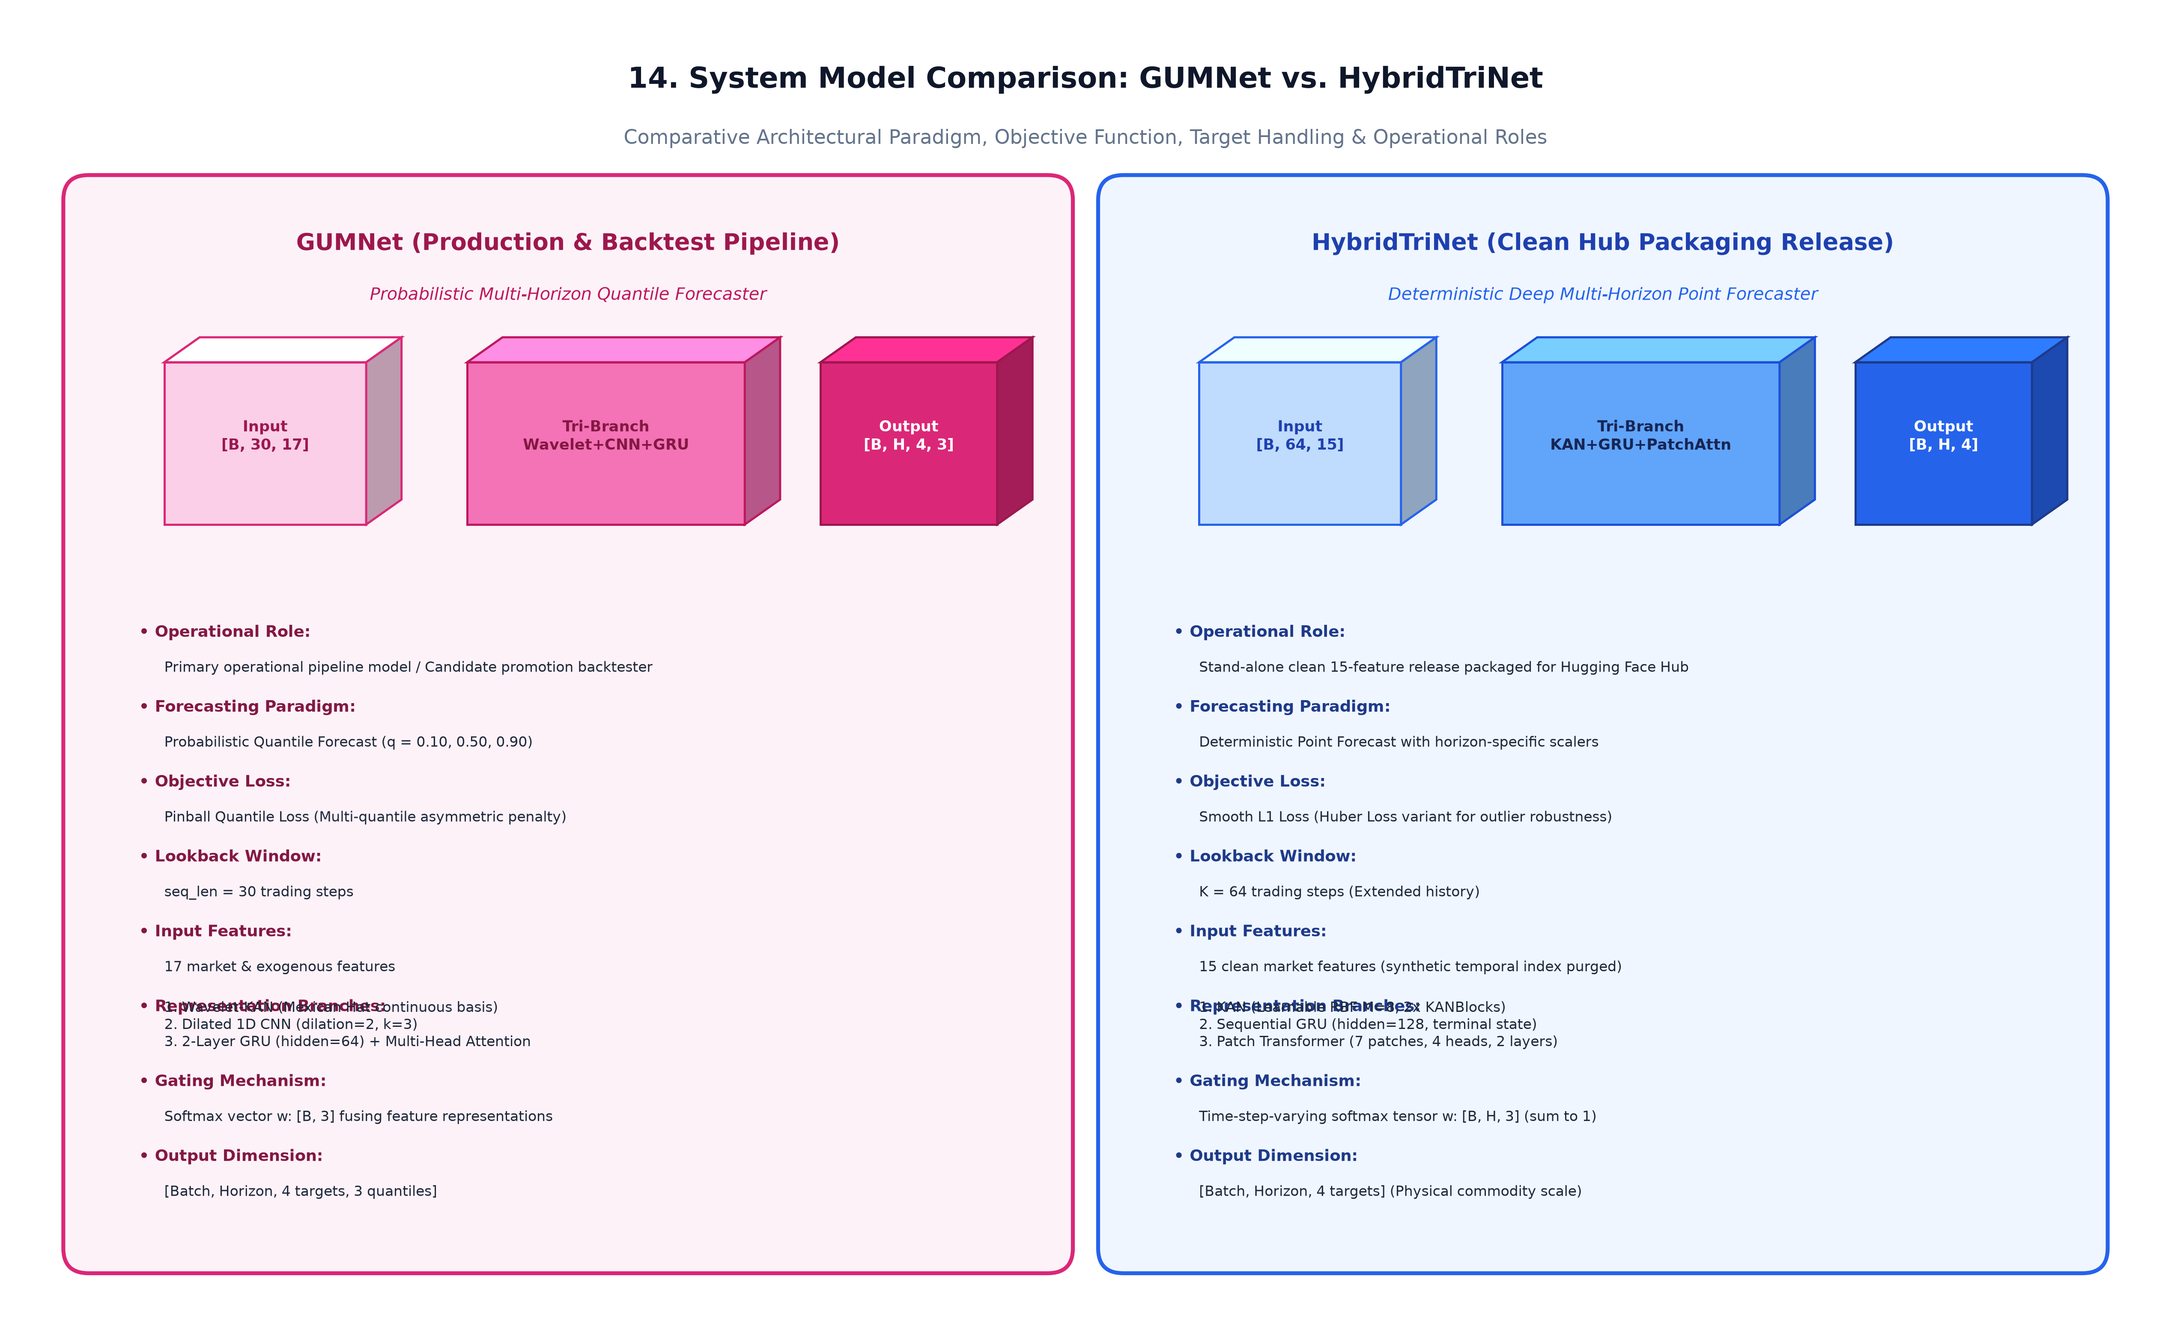
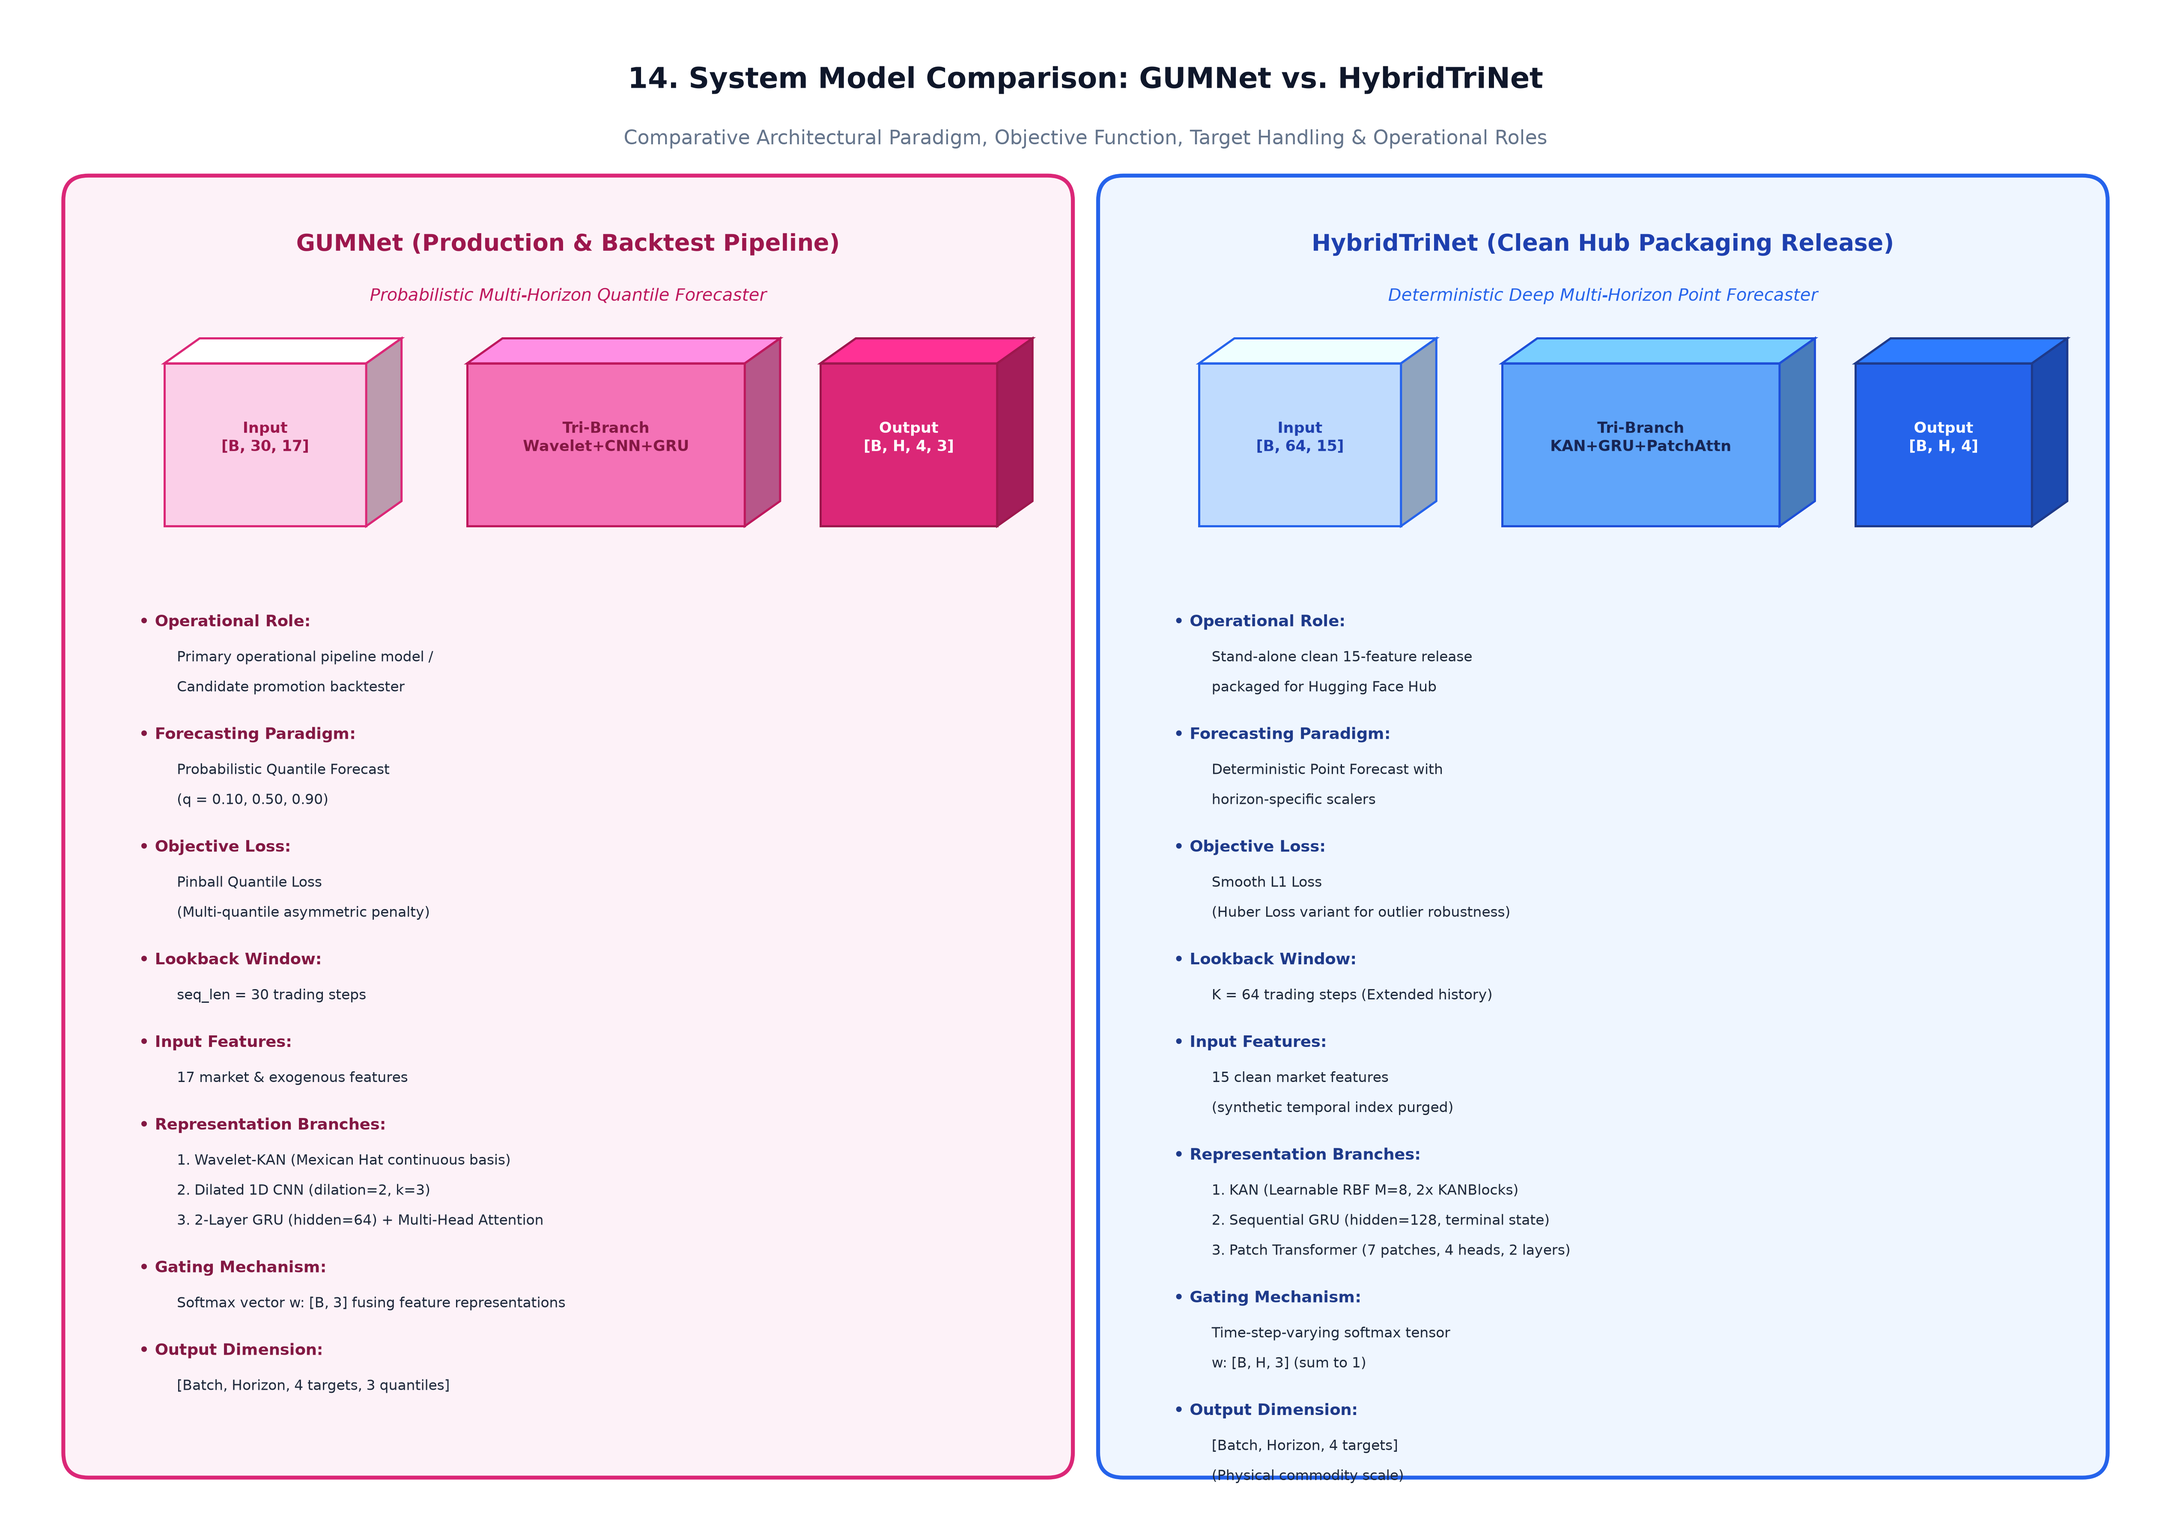
docs: resolve text collisions in Fig 7 (denormalization box) and Fig 14 (bullet lines)

Changed region(s): [[0.0312, 0.0311, 0.9661, 0.4353], [0.0312, 0.4663, 0.9661, 0.9949], [0.0623, 0.4663, 0.2493, 0.9016]]

diff --git a/scripts/visualize_gumnet.py b/scripts/visualize_gumnet.py
@@ -329,74 +329,88 @@ def draw_13_gumnet_quantile_output():
 # 14. Model Comparison Diagram
 # =============================================================================
 def draw_14_model_comparison():
-    fig, ax = plt.subplots(figsize=(17, 10.5), dpi=300, facecolor="#ffffff")
+    fig, ax = plt.subplots(figsize=(17, 12.0), dpi=300, facecolor="#ffffff")
     ax.set_facecolor("#ffffff")
     ax.set_xlim(0, 17)
-    ax.set_ylim(0, 10.5)
+    ax.set_ylim(0, 12.0)
     ax.axis("off")
 
-    ax.text(8.5, 9.9, "14. System Model Comparison: GUMNet vs. HybridTriNet", fontsize=16, fontweight="bold", color="#0f172a", ha="center")
-    ax.text(8.5, 9.45, "Comparative Architectural Paradigm, Objective Function, Target Handling & Operational Roles", fontsize=11, color="#64748b", ha="center")
+    ax.text(8.5, 11.4, "14. System Model Comparison: GUMNet vs. HybridTriNet", fontsize=16, fontweight="bold", color="#0f172a", ha="center")
+    ax.text(8.5, 10.95, "Comparative Architectural Paradigm, Objective Function, Target Handling & Operational Roles", fontsize=11, color="#64748b", ha="center")
 
     # Column 1: GUMNet Panel
-    ax.add_patch(patches.FancyBboxPatch((0.6, 0.6), 7.6, 8.4, boxstyle="round,pad=0.2", facecolor="#fdf2f8", edgecolor="#db2777", lw=2.2))
-    ax.text(4.4, 8.6, "GUMNet (Production & Backtest Pipeline)", fontsize=13, fontweight="bold", color="#9d174d", ha="center")
-    ax.text(4.4, 8.2, "Probabilistic Multi-Horizon Quantile Forecaster", fontsize=9.5, style="italic", color="#be185d", ha="center")
+    ax.add_patch(patches.FancyBboxPatch((0.6, 0.5), 7.6, 10.0, boxstyle="round,pad=0.2", facecolor="#fdf2f8", edgecolor="#db2777", lw=2.2))
+    ax.text(4.4, 10.1, "GUMNet (Production & Backtest Pipeline)", fontsize=13, fontweight="bold", color="#9d174d", ha="center")
+    ax.text(4.4, 9.7, "Probabilistic Multi-Horizon Quantile Forecaster", fontsize=9.5, style="italic", color="#be185d", ha="center")
 
-    draw_isometric_cube(ax, 1.2, 6.4, 1.6, 1.3, 0.4, "#fbcfe8", edge_color="#db2777")
-    ax.text(2.0, 7.0, "Input\n[B, 30, 17]", fontsize=8.5, fontweight="bold", color="#9d174d", ha="center")
+    draw_isometric_cube(ax, 1.2, 7.9, 1.6, 1.3, 0.4, "#fbcfe8", edge_color="#db2777")
+    ax.text(2.0, 8.5, "Input\n[B, 30, 17]", fontsize=8.5, fontweight="bold", color="#9d174d", ha="center")
 
-    draw_isometric_cube(ax, 3.6, 6.4, 2.2, 1.3, 0.4, "#f472b6", edge_color="#be185d")
-    ax.text(4.7, 7.0, "Tri-Branch\nWavelet+CNN+GRU", fontsize=8.5, fontweight="bold", color="#831843", ha="center")
+    draw_isometric_cube(ax, 3.6, 7.9, 2.2, 1.3, 0.4, "#f472b6", edge_color="#be185d")
+    ax.text(4.7, 8.5, "Tri-Branch\nWavelet+CNN+GRU", fontsize=8.5, fontweight="bold", color="#831843", ha="center")
 
-    draw_isometric_cube(ax, 6.4, 6.4, 1.4, 1.3, 0.4, "#db2777", edge_color="#9d174d")
-    ax.text(7.1, 7.0, "Output\n[B, H, 4, 3]", fontsize=8.5, fontweight="bold", color="#ffffff", ha="center")
+    draw_isometric_cube(ax, 6.4, 7.9, 1.4, 1.3, 0.4, "#db2777", edge_color="#9d174d")
+    ax.text(7.1, 8.5, "Output\n[B, H, 4, 3]", fontsize=8.5, fontweight="bold", color="#ffffff", ha="center")
 
     gum_specs = [
-        ("Operational Role", "Primary operational pipeline model / Candidate promotion backtester"),
-        ("Forecasting Paradigm", "Probabilistic Quantile Forecast (q = 0.10, 0.50, 0.90)"),
-        ("Objective Loss", "Pinball Quantile Loss (Multi-quantile asymmetric penalty)"),
-        ("Lookback Window", "seq_len = 30 trading steps"),
-        ("Input Features", "17 market & exogenous features"),
-        ("Representation Branches", "1. Wavelet-KAN (Mexican Hat continuous basis)\n2. Dilated 1D CNN (dilation=2, k=3)\n3. 2-Layer GRU (hidden=64) + Multi-Head Attention"),
-        ("Gating Mechanism", "Softmax vector w: [B, 3] fusing feature representations"),
-        ("Output Dimension", "[Batch, Horizon, 4 targets, 3 quantiles]"),
+        ("Operational Role", ["Primary operational pipeline model /", "Candidate promotion backtester"]),
+        ("Forecasting Paradigm", ["Probabilistic Quantile Forecast", "(q = 0.10, 0.50, 0.90)"]),
+        ("Objective Loss", ["Pinball Quantile Loss", "(Multi-quantile asymmetric penalty)"]),
+        ("Lookback Window", ["seq_len = 30 trading steps"]),
+        ("Input Features", ["17 market & exogenous features"]),
+        ("Representation Branches", [
+            "1. Wavelet-KAN (Mexican Hat continuous basis)",
+            "2. Dilated 1D CNN (dilation=2, k=3)",
+            "3. 2-Layer GRU (hidden=64) + Multi-Head Attention"
+        ]),
+        ("Gating Mechanism", ["Softmax vector w: [B, 3] fusing feature representations"]),
+        ("Output Dimension", ["[Batch, Horizon, 4 targets, 3 quantiles]"]),
     ]
-    y_pos = 5.5
-    for label, val in gum_specs:
-        ax.text(1.0, y_pos, f"• {label}:", fontsize=8.8, fontweight="bold", color="#831843")
-        ax.text(1.2, y_pos - 0.28, val, fontsize=8.0, color="#1e293b")
-        y_pos -= 0.60
+    cur_y = 7.1
+    for label, lines in gum_specs:
+        ax.text(1.0, cur_y, f"• {label}:", fontsize=8.8, fontweight="bold", color="#831843")
+        cur_y -= 0.28
+        for line in lines:
+            ax.text(1.3, cur_y, line, fontsize=8.0, color="#1e293b")
+            cur_y -= 0.24
+        cur_y -= 0.14
 
     # Column 2: HybridTriNet Panel
-    ax.add_patch(patches.FancyBboxPatch((8.8, 0.6), 7.6, 8.4, boxstyle="round,pad=0.2", facecolor="#eff6ff", edgecolor="#2563eb", lw=2.2))
-    ax.text(12.6, 8.6, "HybridTriNet (Clean Hub Packaging Release)", fontsize=13, fontweight="bold", color="#1e40af", ha="center")
-    ax.text(12.6, 8.2, "Deterministic Deep Multi-Horizon Point Forecaster", fontsize=9.5, style="italic", color="#2563eb", ha="center")
+    ax.add_patch(patches.FancyBboxPatch((8.8, 0.5), 7.6, 10.0, boxstyle="round,pad=0.2", facecolor="#eff6ff", edgecolor="#2563eb", lw=2.2))
+    ax.text(12.6, 10.1, "HybridTriNet (Clean Hub Packaging Release)", fontsize=13, fontweight="bold", color="#1e40af", ha="center")
+    ax.text(12.6, 9.7, "Deterministic Deep Multi-Horizon Point Forecaster", fontsize=9.5, style="italic", color="#2563eb", ha="center")
 
-    draw_isometric_cube(ax, 9.4, 6.4, 1.6, 1.3, 0.4, "#bfdbfe", edge_color="#2563eb")
-    ax.text(10.2, 7.0, "Input\n[B, 64, 15]", fontsize=8.5, fontweight="bold", color="#1e40af", ha="center")
+    draw_isometric_cube(ax, 9.4, 7.9, 1.6, 1.3, 0.4, "#bfdbfe", edge_color="#2563eb")
+    ax.text(10.2, 8.5, "Input\n[B, 64, 15]", fontsize=8.5, fontweight="bold", color="#1e40af", ha="center")
 
-    draw_isometric_cube(ax, 11.8, 6.4, 2.2, 1.3, 0.4, "#60a5fa", edge_color="#1d4ed8")
-    ax.text(12.9, 7.0, "Tri-Branch\nKAN+GRU+PatchAttn", fontsize=8.5, fontweight="bold", color="#172554", ha="center")
+    draw_isometric_cube(ax, 11.8, 7.9, 2.2, 1.3, 0.4, "#60a5fa", edge_color="#1d4ed8")
+    ax.text(12.9, 8.5, "Tri-Branch\nKAN+GRU+PatchAttn", fontsize=8.5, fontweight="bold", color="#172554", ha="center")
 
-    draw_isometric_cube(ax, 14.6, 6.4, 1.4, 1.3, 0.4, "#2563eb", edge_color="#1e3a8a")
-    ax.text(15.3, 7.0, "Output\n[B, H, 4]", fontsize=8.5, fontweight="bold", color="#ffffff", ha="center")
+    draw_isometric_cube(ax, 14.6, 7.9, 1.4, 1.3, 0.4, "#2563eb", edge_color="#1e3a8a")
+    ax.text(15.3, 8.5, "Output\n[B, H, 4]", fontsize=8.5, fontweight="bold", color="#ffffff", ha="center")
 
     hyb_specs = [
-        ("Operational Role", "Stand-alone clean 15-feature release packaged for Hugging Face Hub"),
-        ("Forecasting Paradigm", "Deterministic Point Forecast with horizon-specific scalers"),
-        ("Objective Loss", "Smooth L1 Loss (Huber Loss variant for outlier robustness)"),
-        ("Lookback Window", "K = 64 trading steps (Extended history)"),
-        ("Input Features", "15 clean market features (synthetic temporal index purged)"),
-        ("Representation Branches", "1. KAN (Learnable RBF M=8, 2x KANBlocks)\n2. Sequential GRU (hidden=128, terminal state)\n3. Patch Transformer (7 patches, 4 heads, 2 layers)"),
-        ("Gating Mechanism", "Time-step-varying softmax tensor w: [B, H, 3] (sum to 1)"),
-        ("Output Dimension", "[Batch, Horizon, 4 targets] (Physical commodity scale)"),
+        ("Operational Role", ["Stand-alone clean 15-feature release", "packaged for Hugging Face Hub"]),
+        ("Forecasting Paradigm", ["Deterministic Point Forecast with", "horizon-specific scalers"]),
+        ("Objective Loss", ["Smooth L1 Loss", "(Huber Loss variant for outlier robustness)"]),
+        ("Lookback Window", ["K = 64 trading steps (Extended history)"]),
+        ("Input Features", ["15 clean market features", "(synthetic temporal index purged)"]),
+        ("Representation Branches", [
+            "1. KAN (Learnable RBF M=8, 2x KANBlocks)",
+            "2. Sequential GRU (hidden=128, terminal state)",
+            "3. Patch Transformer (7 patches, 4 heads, 2 layers)"
+        ]),
+        ("Gating Mechanism", ["Time-step-varying softmax tensor", "w: [B, H, 3] (sum to 1)"]),
+        ("Output Dimension", ["[Batch, Horizon, 4 targets]", "(Physical commodity scale)"]),
     ]
-    y_pos = 5.5
-    for label, val in hyb_specs:
-        ax.text(9.2, y_pos, f"• {label}:", fontsize=8.8, fontweight="bold", color="#1e3a8a")
-        ax.text(9.4, y_pos - 0.28, val, fontsize=8.0, color="#1e293b")
-        y_pos -= 0.60
+    cur_y = 7.1
+    for label, lines in hyb_specs:
+        ax.text(9.2, cur_y, f"• {label}:", fontsize=8.8, fontweight="bold", color="#1e3a8a")
+        cur_y -= 0.28
+        for line in lines:
+            ax.text(9.5, cur_y, line, fontsize=8.0, color="#1e293b")
+            cur_y -= 0.24
+        cur_y -= 0.14
 
     save_fig(fig, FIG_DIR / "14_model_comparison.png")
 

diff --git a/scripts/visualize_architecture.py b/scripts/visualize_architecture.py
@@ -336,35 +336,41 @@ def draw_6_gated_fusion():
 # 7. Multi-Horizon Output Shapes
 # =============================================================================
 def draw_7_multi_horizon_output():
-    fig, ax = plt.subplots(figsize=(16, 7.5), dpi=300, facecolor="#ffffff")
+    fig, ax = plt.subplots(figsize=(16, 8.5), dpi=300, facecolor="#ffffff")
     ax.set_facecolor("#ffffff")
     ax.set_xlim(0, 16)
-    ax.set_ylim(0, 7.5)
+    ax.set_ylim(0, 8.5)
     ax.axis("off")
 
-    ax.text(8.0, 7.0, "7. Multi-Horizon Forecasting Output Tensor Decomposition", fontsize=16, fontweight="bold", color="#0f172a", ha="center")
-    ax.text(8.0, 6.6, "Isolated, horizon-specialized checkpoints evaluated simultaneously for 4 target commodities", fontsize=10, color="#64748b", ha="center")
+    ax.text(8.0, 8.0, "7. Multi-Horizon Forecasting Output Tensor Decomposition", fontsize=16, fontweight="bold", color="#0f172a", ha="center")
+    ax.text(8.0, 7.55, "Isolated, horizon-specialized checkpoints evaluated simultaneously for 4 target commodities", fontsize=10.5, color="#64748b", ha="center")
 
     hz_cards = [
-        {"h": 1, "h_val": 1.2, "w_val": 1.4, "color": "#94a3b8", "edge": "#475569", "name": "Horizon 1d", "shape": "[B, 1, 4]", "cycle": "Spot / 1-Day Ahead\nFast Momentum"},
-        {"h": 5, "h_val": 1.6, "w_val": 1.4, "color": "#60a5fa", "edge": "#2563eb", "name": "Horizon 5d", "shape": "[B, 5, 4]", "cycle": "1-Week Outlook\nInventory Cycle"},
-        {"h": 10, "h_val": 2.0, "w_val": 1.4, "color": "#818cf8", "edge": "#4f46e5", "name": "Horizon 10d", "shape": "[B, 10, 4]", "cycle": "2-Week Forward\nRefinery Dispatch"},
-        {"h": 15, "h_val": 2.3, "w_val": 1.4, "color": "#c084fc", "edge": "#7e22ce", "name": "Horizon 15d", "shape": "[B, 15, 4]", "cycle": "Mid-Month Tender\nArbitrage Spread"},
-        {"h": 20, "h_val": 2.6, "w_val": 1.4, "color": "#f472b6", "edge": "#db2777", "name": "Horizon 20d", "shape": "[B, 20, 4]", "cycle": "Monthly Turnaround\nProcurement Cycle"},
-        {"h": 30, "h_val": 2.9, "w_val": 1.4, "color": "#fbbf24", "edge": "#d97706", "name": "Horizon 30d", "shape": "[B, 30, 4]", "cycle": "1-Month Contract\nMacro Shifts"},
-        {"h": 60, "h_val": 3.4, "w_val": 1.4, "color": "#fb923c", "edge": "#ea580c", "name": "Horizon 60d", "shape": "[B, 60, 4]", "cycle": "Quarterly Strategy\nStructural Cycle"},
+        {"h": 1, "h_val": 1.2, "w_val": 1.4, "color": "#94a3b8", "edge": "#475569", "name": "Horizon 1d", "shape": "[B, 1, 4]", "cycle": ["Spot / 1-Day Ahead", "Fast Momentum"]},
+        {"h": 5, "h_val": 1.6, "w_val": 1.4, "color": "#60a5fa", "edge": "#2563eb", "name": "Horizon 5d", "shape": "[B, 5, 4]", "cycle": ["1-Week Outlook", "Inventory Cycle"]},
+        {"h": 10, "h_val": 2.0, "w_val": 1.4, "color": "#818cf8", "edge": "#4f46e5", "name": "Horizon 10d", "shape": "[B, 10, 4]", "cycle": ["2-Week Forward", "Refinery Dispatch"]},
+        {"h": 15, "h_val": 2.3, "w_val": 1.4, "color": "#c084fc", "edge": "#7e22ce", "name": "Horizon 15d", "shape": "[B, 15, 4]", "cycle": ["Mid-Month Tender", "Arbitrage Spread"]},
+        {"h": 20, "h_val": 2.6, "w_val": 1.4, "color": "#f472b6", "edge": "#db2777", "name": "Horizon 20d", "shape": "[B, 20, 4]", "cycle": ["Monthly Turnaround", "Procurement Cycle"]},
+        {"h": 30, "h_val": 2.9, "w_val": 1.4, "color": "#fbbf24", "edge": "#d97706", "name": "Horizon 30d", "shape": "[B, 30, 4]", "cycle": ["1-Month Contract", "Macro Shifts"]},
+        {"h": 60, "h_val": 3.4, "w_val": 1.4, "color": "#fb923c", "edge": "#ea580c", "name": "Horizon 60d", "shape": "[B, 60, 4]", "cycle": ["Quarterly Strategy", "Structural Cycle"]},
     ]
 
     for idx, c in enumerate(hz_cards):
         x = 0.6 + idx * 2.15
-        y = 2.0
+        y = 2.8
         draw_isometric_cube(ax, x, y, c["w_val"], c["h_val"], 0.6, c["color"], edge_color=c["edge"])
         ax.text(x + c["w_val"] / 2, y + c["h_val"] + 0.65, c["name"], fontsize=10.5, fontweight="bold", color="#0f172a", ha="center")
-        ax.text(x + c["w_val"] / 2, y + c["h_val"] + 0.35, c["shape"], fontsize=9, fontweight="bold", color=c["edge"], ha="center")
-        ax.text(x + c["w_val"] / 2, y - 0.7, f"{c['cycle']}\nMG95, MG92\nDO 0.001%, DO 0.05%", fontsize=7.5, color="#334155", ha="center", va="top")
+        ax.text(x + c["w_val"] / 2, y + c["h_val"] + 0.32, c["shape"], fontsize=9, fontweight="bold", color=c["edge"], ha="center")
+        
+        # Text descriptions below cube
+        y_text = y - 0.25
+        for line in c["cycle"]:
+            ax.text(x + c["w_val"] / 2, y_text, line, fontsize=7.8, fontweight="medium", color="#1e293b", ha="center", va="top")
+            y_text -= 0.26
+        ax.text(x + c["w_val"] / 2, y_text - 0.05, "MG95, MG92\nDO 0.001%, DO 0.05%", fontsize=7.2, color="#475569", ha="center", va="top")
 
-    ax.add_patch(patches.Rectangle((0.6, 0.4), 14.8, 0.7, facecolor="#f8fafc", edgecolor="#cbd5e1", lw=1.2, linestyle="--"))
-    ax.text(8.0, 0.75, "Denormalization Guarantee: Out = out_norm * y_sd + y_mu restoring forecasts to physical USD/barrel & market scale.", fontsize=8.8, color="#475569", ha="center")
+    ax.add_patch(patches.Rectangle((0.6, 0.25), 14.8, 0.65, facecolor="#f8fafc", edgecolor="#94a3b8", lw=1.2, linestyle="--"))
+    ax.text(8.0, 0.58, "Denormalization Guarantee: Out = out_norm * y_sd + y_mu restoring forecasts to physical USD/barrel & market scale.", fontsize=9.0, color="#334155", ha="center", va="center")
 
     save_fig(fig, FIG_DIR / "7_multi_horizon_output.png")
 
